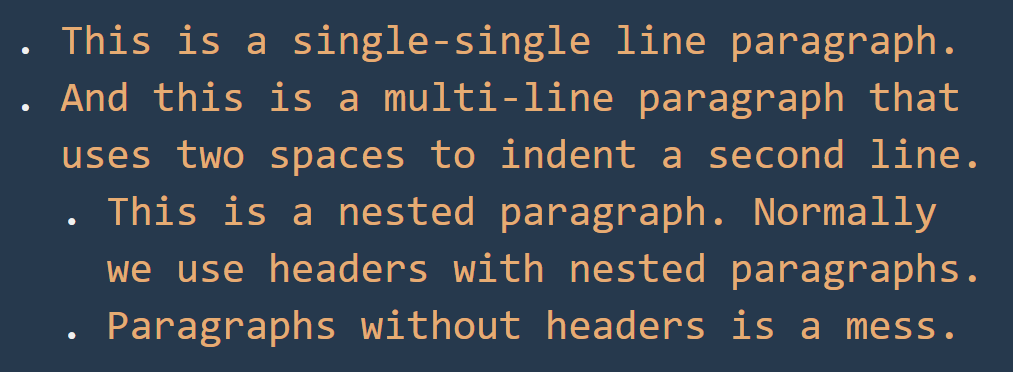
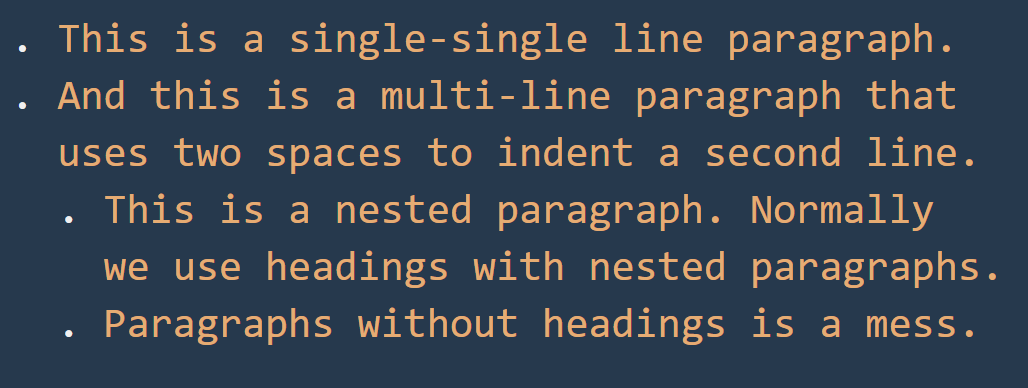
Docs

diff --git a/README.md b/README.md
@@ -1,7 +1,7 @@
 # Xi personal wiki language
 
 "Xi" is a markdown-like language designed for a personal knowledge base.
-Color and indentation is used to highlight headers, paragraphs, links,
+Color and indentation is used to highlight headings, paragraphs, links,
 source code examples and definitions. You can read and write Xi from
 within a VSCode without a need to "render" it into a "visual" web page
 or PDF. This makes Xi a very **fast** tool to keep records: you grep
@@ -11,10 +11,10 @@ example of Xi page from my personal knowledge base with "Memory" color theme:
 
 <img src="https://raw.githubusercontent.com/grigoryvp/vscode-language-xi/master/doc/xi_illustration.png" height="256">
 
-Example below shows a simple markdown syntax with nested headers and
-paragraphs. With Xi, header is marked with indentation and tail space-dot
-instead of indentation. So, header 2 in markdown that is '## Header 2'
-becomes '  Header 2 .' in Xi (tail space-dot defines that it's a header
+Example below shows a simple markdown syntax with nested headings and
+paragraphs. With Xi, heading is marked with indentation and tail space-dot
+instead of indentation. So, heading 2 in markdown that is '## Heading 2'
+becomes '  Heading 2 .' in Xi (tail space-dot defines that it's a heading
 and leading two spaces defines second level. Third level will be 4 spaces
 and up to 10 spaces for a maximum nesting level 5). Paragraphs are marked
 with dot-space, effectively saving one empty line used in markdown:
@@ -32,22 +32,32 @@ notion of separating paragraphs with empty line, such layout saves a lot
 of vertical space, which is vital for documenting software-related things
 like programming lanugae syntax, APIs, frameworks etc. We tend to have
 short paragraphs that do not tend to follow each other, but tend to form
-a really complex nested strucure with lots of headers, meta information,
-code samples etc. Such paragrpah layout, used alongside colored headers and
+a really complex nested strucure with lots of headings, meta information,
+code samples etc. Such paragrpah layout, used alongside colored headings and
 proper indentation, proved it's worth during my 10 years of using Xi as a
 personal knowledge base.
 
 <img src="https://raw.githubusercontent.com/grigoryvp/vscode-language-xi/master/doc/paragraph_1.png" width="256">
 
+# Heading
+
+Alongside paragraph, heading is a second most used building block for a
+knowledge base. Heading type is denoted by space-dot suffix, while heading
+nesting level is denoted by increments of two spaces. In most cases headings
+are combined with paragraphs in order to create hierarchical structures
+that are easy to read **and modify**.
+
+<img src="https://raw.githubusercontent.com/grigoryvp/vscode-language-xi/master/doc/heading_1.png" width="256">
+
 # Todo
 
 * Correctly catch links within special marks, ex |https://foo|.
-* Support for "header-as-link" link detection:
+* Support for "heading-as-link" link detection:
   * "NSButton[] ."
   * "- [cocoa appkit] NSStatusBarButton[] ."
   * "- NSStatusBarButton[] [cocoa appkit] ."
 * Need to somehow implement deep links like "ruby api#Kernel#system" where
-  "system" is a nested header under "Kernel".
+  "system" is a nested heading under "Kernel".
 * Outline API support.
 
 # License
